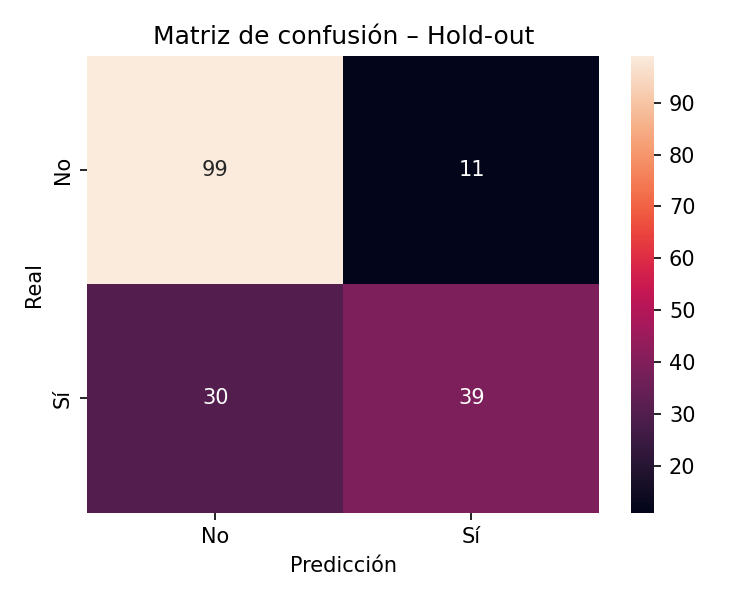
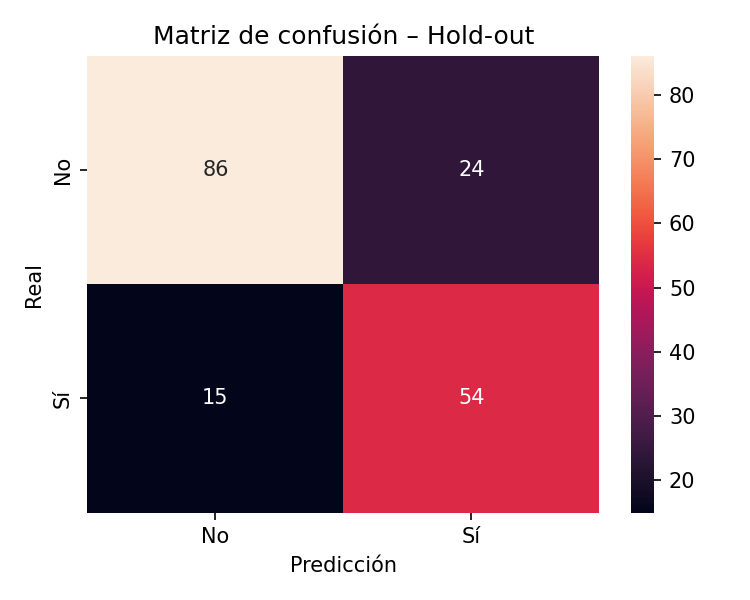
agregue class_weight = balanced, lo que mejora el recal

diff --git a/trabajo1/titanic/src/clustered_cart.py b/trabajo1/titanic/src/clustered_cart.py
@@ -7,6 +7,7 @@ from sklearn.tree import DecisionTreeClassifier
 from sklearn.utils.validation import check_is_fitted
 
 class ClusteredCART(BaseEstimator, ClassifierMixin):
+
     """
     Mixture duro: K clusters con KMeans + 1 CART por clúster.
     Compatible con GridSearchCV (expone hiperparámetros del árbol).
@@ -21,6 +22,7 @@ class ClusteredCART(BaseEstimator, ClassifierMixin):
         min_samples_leaf=5,
         min_samples_split=10,
         ccp_alpha=0.0,
+        class_weight=None
     ):
         self.n_clusters = n_clusters
         self.random_state = random_state
@@ -29,6 +31,7 @@ class ClusteredCART(BaseEstimator, ClassifierMixin):
         self.min_samples_leaf = min_samples_leaf
         self.min_samples_split = min_samples_split
         self.ccp_alpha = ccp_alpha
+        self.class_weight = class_weight
 
     def _new_tree(self):
         return DecisionTreeClassifier(
@@ -38,6 +41,7 @@ class ClusteredCART(BaseEstimator, ClassifierMixin):
             min_samples_leaf=self.min_samples_leaf,
             min_samples_split=self.min_samples_split,
             ccp_alpha=self.ccp_alpha,
+            class_weight=self.class_weight
         )
 
     def fit(self, X, y):

diff --git a/trabajo1/titanic/src/train.py b/trabajo1/titanic/src/train.py
@@ -34,12 +34,13 @@ def main():
 
     # 4) Grid de hiperparámetros (K + árbol)
     param_grid = {
-        "clf__n_clusters": [2, 3, 4, 5],
+        "clf__n_clusters": [2, 3],
         "clf__criterion": ["gini", "entropy"],
         "clf__max_depth": [5, 7, 9],
-        "clf__min_samples_leaf": [3, 5],
-        "clf__min_samples_split": [10, 15],
-        "clf__ccp_alpha": [0.0, 0.002, 0.004],
+        "clf__min_samples_leaf": [2, 3, 4, 5],
+        "clf__min_samples_split": [6, 10, 15],
+        "clf__ccp_alpha": [0.001, 0.002, 0.004, 0.006, 0.008, 0.01, 0.012],
+        "clf__class_weight": ["balanced"]
     }
 
     gs = GridSearchCV(
